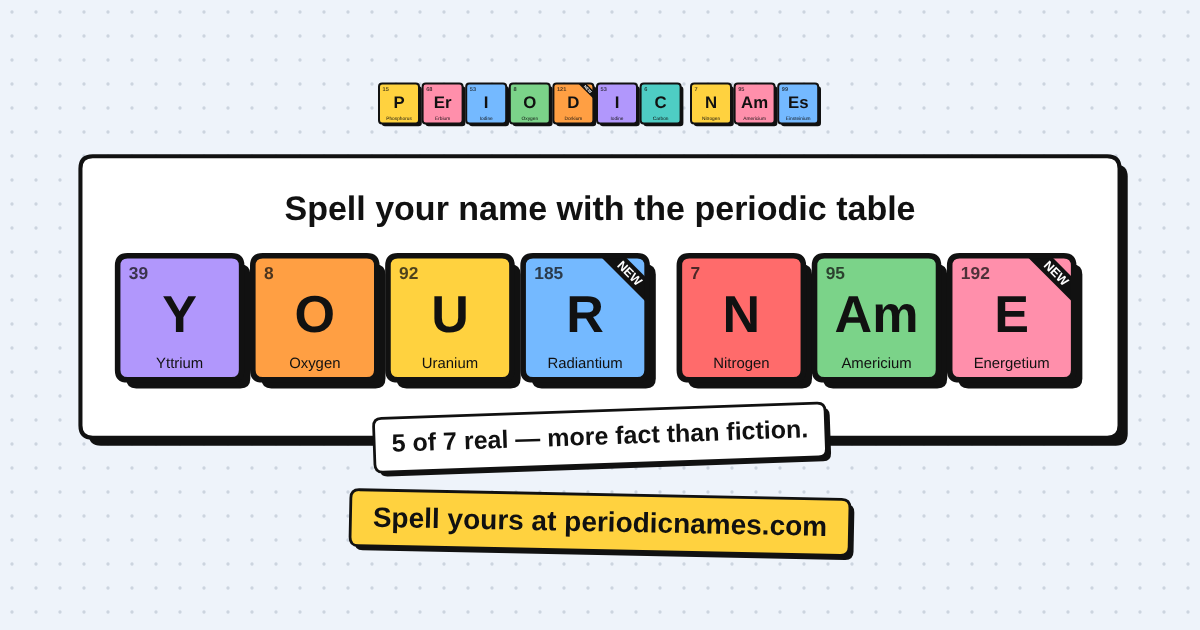
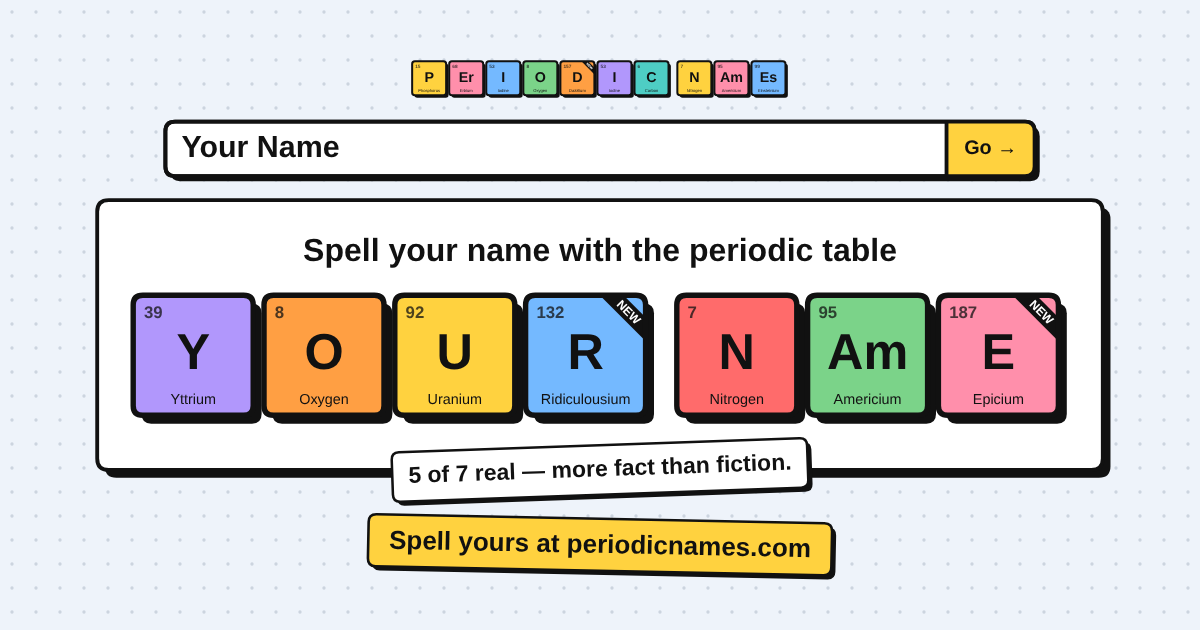
feat(share): lay out share images and reel like the site, inside IG/TikTok safe zones
Input box (with Go button) stays at the top, the periodic table sits in
the middle and lights up, and the result card lands below it, the same
order as the website. Tall formats now keep all content within
x 140-940, y 220-1420 so Instagram and TikTok overlays don't cover it.
Link-preview image regenerated with the new layout.

Claude-Session: https://claude.ai/code/session_013XgXtwSVp25UKSNgw6kzbd

diff --git a/src/utils/shareScene.ts b/src/utils/shareScene.ts
@@ -33,20 +33,20 @@ interface FormatSpec {
 }
 
 const TALL: FormatSpec = {
-  top: 210, bottom: 1480, side: 90, logoTile: 62, nameTileMax: 176, nameMaxH: 520,
-  captionSize: 50, stickerSize: 34, ctaSize: 40, gap: 56, tableW: 860, dot: 30,
+  top: 220, bottom: 1420, side: 140, logoTile: 54, nameTileMax: 150, nameMaxH: 330,
+  captionSize: 50, stickerSize: 32, ctaSize: 38, gap: 44, tableW: 800, dot: 30,
 };
 
 const SPECS: Record<ShareFormat, FormatSpec> = {
   reel: TALL,
   story: TALL,
   post: {
-    top: 64, bottom: 1290, side: 80, logoTile: 54, nameTileMax: 168, nameMaxH: 430,
-    captionSize: 46, stickerSize: 32, ctaSize: 38, gap: 48, tableW: 780, dot: 30,
+    top: 56, bottom: 1300, side: 80, logoTile: 52, nameTileMax: 150, nameMaxH: 330,
+    captionSize: 46, stickerSize: 30, ctaSize: 36, gap: 42, tableW: 820, dot: 30,
   },
   wide: {
-    top: 34, bottom: 600, side: 70, logoTile: 40, nameTileMax: 136, nameMaxH: 240,
-    captionSize: 34, stickerSize: 25, ctaSize: 28, gap: 30, tableW: 0, dot: 24,
+    top: 26, bottom: 606, side: 70, logoTile: 34, nameTileMax: 120, nameMaxH: 200,
+    captionSize: 32, stickerSize: 23, ctaSize: 26, gap: 24, tableW: 0, dot: 24,
   },
 };
 
@@ -102,6 +102,8 @@ export interface SceneTimeline {
 const TILE_POP_MS = 360;
 const CTA_IN_MS = 420;
 const FINAL_HOLD_MS = 3000;
+const SUBMIT_DELAY_MS = 300;
+const PRESS_MS = 160;
 const TILE_IMPACT_MS = 140;
 
 type Measure = (text: string, weight: number, size: number) => number;
@@ -210,8 +212,11 @@ export function buildShareScene(result: NameResult, caption: string, format: Sha
   const ctaH = spec.ctaSize * 2;
   const ctaW = measure(SHARE_CTA, 700, spec.ctaSize) + spec.ctaSize * 1.6;
 
+  const inputH = spec.captionSize * 1.7;
+  const inputW = contentW * 0.82;
+
   const region = spec.bottom - spec.top;
-  const fixedH = logo.height + spec.gap + cardH + stickerH * 0.5 + spec.gap + ctaH;
+  const fixedH = logo.height + spec.gap + inputH + spec.gap + cardH + stickerH * 0.5 + spec.gap + ctaH;
   let tableCell = spec.tableW / 18;
   if (spec.tableW > 0) {
     const room = region - fixedH - spec.gap;
@@ -225,11 +230,8 @@ export function buildShareScene(result: NameResult, caption: string, format: Sha
   const logoPos = { x: (width - logo.width) / 2, y };
   y += logo.height + spec.gap;
 
-  const card: Box = { x: (width - cardW) / 2, y, w: cardW, h: cardH };
-  const captionY = card.y + pad;
-  const tilesPos = { x: (width - tilesBlock.width) / 2, y: card.y + pad + captionBlockH };
-  const stickerCy = card.y + card.h;
-  y = card.y + card.h + stickerH * 0.5 + spec.gap;
+  const inputBox: Box = { x: (width - inputW) / 2, y, w: inputW, h: inputH };
+  y += inputH + spec.gap;
 
   let table: ShareScene['table'] = null;
   if (showTable) {
@@ -237,14 +239,17 @@ export function buildShareScene(result: NameResult, caption: string, format: Sha
     y += tableH + spec.gap;
   }
 
+  const card: Box = { x: (width - cardW) / 2, y, w: cardW, h: cardH };
+  const captionY = card.y + pad;
+  const tilesPos = { x: (width - tilesBlock.width) / 2, y: card.y + pad + captionBlockH };
+  const stickerCy = card.y + card.h;
+  y = card.y + card.h + stickerH * 0.5 + spec.gap;
+
   const litSymbols = new Map<string, { color: string; order: number }>();
   for (const p of tilesBlock.placed) {
     const el = p.item.element;
     if (el && !litSymbols.has(el.symbol)) litSymbols.set(el.symbol, { color: p.item.color, order: p.order });
   }
-
-  const inputW = Math.min(contentW, Math.max(cardW, contentW * 0.8));
-  const inputH = spec.captionSize * 2.4;
 
   return {
     format, width, height, name: result.originalName, spec,
@@ -256,7 +261,7 @@ export function buildShareScene(result: NameResult, caption: string, format: Sha
     table,
     litSymbols,
     cta: { size: spec.ctaSize, cx: width / 2, cy: y + ctaH / 2, w: ctaW, h: ctaH },
-    inputBox: { x: (width - inputW) / 2, y: card.y + card.h / 2 - inputH / 2, w: inputW, h: inputH },
+    inputBox,
   };
 }
 
@@ -265,7 +270,7 @@ export function sceneTimeline(scene: ShareScene): SceneTimeline {
   const typeStart = 300;
   const charMs = Math.min(110, Math.max(45, 1100 / chars));
   const typeEnd = typeStart + chars * charMs;
-  const cardIn = typeEnd + 420;
+  const cardIn = typeEnd + SUBMIT_DELAY_MS + 260;
   const n = scene.tiles.placed.length;
   const stagger = Math.min(280, Math.max(140, 2600 / Math.max(1, n)));
   const tileStarts = scene.tiles.placed.map((_, i) => cardIn + 260 + i * stagger);
@@ -331,40 +336,60 @@ function drawLogo(ctx: CanvasRenderingContext2D, scene: ShareScene): void {
   for (const p of logo.placed) drawElementTile(ctx, p.item, logo.x + p.x, logo.y + p.y, logo.tile);
 }
 
-function drawInput(ctx: CanvasRenderingContext2D, scene: ShareScene, t: number, tl: SceneTimeline): void {
-  const exit = clamp01((t - tl.cardIn) / 220);
-  if (exit >= 1) return;
-  const enter = easeOutBack(clamp01((t - 0) / 300));
+function drawInput(ctx: CanvasRenderingContext2D, scene: ShareScene, t: number, tl: SceneTimeline | null): void {
   const box = scene.inputBox;
-  const cx = box.x + box.w / 2;
-  const cy = box.y + box.h / 2;
   const unit = scene.spec.captionSize;
-  withTransform(ctx, cx, cy, enter * (1 - exit * 0.4), 0, 1 - exit, () => {
-    ctx.font = canvasFont(700, unit * 0.42);
-    ctx.textAlign = 'left';
-    ctx.textBaseline = 'bottom';
-    ctx.fillStyle = BRAND.ink;
-    ctx.fillText('YOUR NAME', box.x + 4, box.y - unit * 0.3);
+  const submitAt = tl ? tl.typeEnd + SUBMIT_DELAY_MS : -Infinity;
+  const pressed = tl !== null && t >= submitAt && t < submitAt + PRESS_MS;
+  const shadow = pressed ? 0 : unit * 0.16;
+  const shift = pressed ? unit * 0.12 : 0;
+  const b: Box = { x: box.x + shift, y: box.y + shift, w: box.w, h: box.h };
+  const radius = unit * 0.3;
+  const border = unit * 0.12;
 
-    drawBrutalBox(ctx, box, BRAND.paper, unit * 0.12, unit * 0.16, unit * 0.3);
-    const typed = Math.max(0, Math.min(scene.name.length, Math.floor((t - tl.typeStart) / tl.charMs) + 1));
-    const text = t < tl.typeStart ? '' : scene.name.slice(0, typed);
-    let size = unit * 1.05;
+  ctx.save();
+  drawBrutalBox(ctx, b, BRAND.paper, border, shadow, radius);
+
+  ctx.font = canvasFont(700, unit * 0.62);
+  const goW = ctx.measureText('Go →').width + unit * 1.1;
+  const goX = b.x + b.w - goW;
+  ctx.save();
+  roundRectPath(ctx, b.x, b.y, b.w, b.h, radius);
+  ctx.clip();
+  ctx.fillStyle = BRAND.yellow;
+  ctx.fillRect(goX, b.y, goW, b.h);
+  ctx.restore();
+  ctx.beginPath();
+  ctx.moveTo(goX, b.y);
+  ctx.lineTo(goX, b.y + b.h);
+  ctx.lineWidth = border;
+  ctx.strokeStyle = BRAND.ink;
+  ctx.stroke();
+  roundRectPath(ctx, b.x, b.y, b.w, b.h, radius);
+  ctx.stroke();
+  ctx.fillStyle = BRAND.ink;
+  ctx.textAlign = 'center';
+  ctx.textBaseline = 'middle';
+  ctx.fillText('Go →', goX + goW / 2, b.y + b.h / 2);
+
+  const typed = tl ? Math.max(0, Math.min(scene.name.length, Math.floor((t - tl.typeStart) / tl.charMs) + 1)) : scene.name.length;
+  const text = tl && t < tl.typeStart ? '' : scene.name.slice(0, typed);
+  const textX = b.x + unit * 0.5;
+  const maxTextW = goX - textX - unit * 0.4;
+  let size = unit * 0.95;
+  ctx.font = canvasFont(700, size);
+  while (size > unit * 0.45 && ctx.measureText(scene.name).width > maxTextW) {
+    size -= 2;
     ctx.font = canvasFont(700, size);
-    while (size > unit * 0.5 && ctx.measureText(scene.name).width > box.w - unit * 1.4) {
-      size -= 2;
-      ctx.font = canvasFont(700, size);
-    }
-    ctx.textBaseline = 'middle';
-    ctx.fillStyle = BRAND.ink;
-    const textX = box.x + unit * 0.6;
-    ctx.fillText(text, textX, cy);
-    const cursorOn = t >= tl.typeEnd ? Math.floor(t / 260) % 2 === 0 : true;
-    if (cursorOn) {
-      const cx2 = textX + ctx.measureText(text).width + 6;
-      ctx.fillRect(cx2, cy - size * 0.55, Math.max(4, unit * 0.08), size * 1.1);
-    }
-  });
+  }
+  ctx.textAlign = 'left';
+  ctx.fillText(text, textX, b.y + b.h / 2);
+  const typing = tl !== null && t < submitAt;
+  if (typing && (t < tl.typeEnd || Math.floor(t / 260) % 2 === 0)) {
+    const cx = textX + ctx.measureText(text).width + 4;
+    ctx.fillRect(cx, b.y + b.h / 2 - size * 0.55, Math.max(4, unit * 0.07), size * 1.1);
+  }
+  ctx.restore();
 }
 
 function drawCard(ctx: CanvasRenderingContext2D, scene: ShareScene, t: number, tl: SceneTimeline | null): void {
@@ -510,7 +535,7 @@ export function drawShareScene(ctx: CanvasRenderingContext2D, scene: ShareScene,
   if (timeline) ctx.translate(shakeOffset(scene, t, timeline), 0);
   drawLogo(ctx, scene);
   drawTable(ctx, scene, t, timeline);
-  if (timeline) drawInput(ctx, scene, t, timeline);
+  drawInput(ctx, scene, t, timeline);
   drawCard(ctx, scene, t, timeline);
   drawNameTiles(ctx, scene, t, timeline);
   drawSticker(ctx, scene, t, timeline);

diff --git a/docs/phase1-tasks.md b/docs/phase1-tasks.md
@@ -97,10 +97,10 @@ Remaining optional polish items are in Phase 1d below.
 ### Phase 2 — Social Sharing (Complete, Oct 2026 rebuild)
 
 - [x] **One share scene for every format** (`src/utils/shareScene.ts`)
-  `buildShareScene` lays out the site's look on canvas: dot-grid mist background, tile logo, white card with the name tiles, stats sticker, lit mini periodic table, yellow "Spell yours at periodicnames.com" CTA. `drawShareScene(ctx, scene, t, timeline)` draws the final frame (images) or any moment of the reel. Formats: Reel 1080×1920 video, Story 1080×1920, Post 1080×1350 (4:5), Wide 1200×630. Tall formats keep content inside y 210–1480 so Instagram's UI doesn't cover it.
+  `buildShareScene` mirrors the site top to bottom: tile logo → name input with yellow "Go →" → periodic table (matched elements lit) → white result card with the name tiles and the stats sticker → yellow "Spell yours at periodicnames.com" CTA, on the dot-grid mist background. `drawShareScene(ctx, scene, t, timeline)` draws the final frame (images) or any moment of the reel. Formats: Reel 1080×1920 video, Story 1080×1920, Post 1080×1350 (4:5), Wide 1200×630 (no table). Tall formats keep everything inside x 140–940, y 220–1420 — clear of Instagram Reels' UI (top ~220px, bottom ~420px, right-side buttons) and TikTok's (top ~160px, bottom ~480px, right ~140px, left ~60px).
 
 - [x] **Reel video** (`src/utils/shareMedia.ts`, `src/utils/shareAudio.ts`)
-  Name types into an input box → card pops → tiles slam in one by one (spring + spin + drop, small screen shake) while their cells light on the mini table → sticker stamps → CTA bounces in → 3s completely still hold so viewers can take it in. 6–9s total. Synthesised sound (typing clicks, rising pops, chord, ding) via Web Audio mixed into the recording. MediaRecorder prefers MP4/H.264 (Chrome, Safari), falls back to WebM (Firefox, with a warning that Instagram may reject it). The AudioContext is primed on the Share click so Safari allows sound.
+  Name types into the input → "Go" button presses → result card pops → tiles slam in one by one (spring + spin + drop, small screen shake) while their cells light on the mini table → sticker stamps → CTA bounces in → 3s completely still hold so viewers can take it in. 6–9s total. Synthesised sound (typing clicks, rising pops, chord, ding) via Web Audio mixed into the recording. MediaRecorder prefers MP4/H.264 (Chrome, Safari), falls back to WebM (Firefox, with a warning that Instagram may reject it). The AudioContext is primed on the Share click so Safari allows sound.
 
 - [x] **Share dialog** (`SharePreviewModal`, `ShareMediaPreview`, `ShareActions`)
   Two-column layout matching the tee designer. Format chips, live preview (no caption field — people add their own caption in the app they post to) — the reel records visibly in the preview, then swaps to the finished video. Primary button uses `navigator.share({ files })` when the device supports file sharing (phones → Instagram/TikTok share sheet), otherwise downloads. Copy link, X intent, Save.

diff --git a/CLAUDE.md b/CLAUDE.md
@@ -263,8 +263,9 @@ Earlier revamp notes: — palette, Space Grotesk, cards/buttons/inputs, shared `
 Launch plan (Oct 2026): **launch with sharing; tees show "coming soon" in production** (`TEES_ENABLED`) until the test shirt confirms placement and Stripe/Printful env setup is done. Preview deploys and local dev keep the full tee flow. To turn tees on: set `VITE_TEES_ENABLED=true` in Vercel Production and redeploy.
 
 Phase 2 — sharing (rebuilt Oct 2026, see docs/phase1-tasks.md):
-- One canvas scene (`shareScene.ts`) in the site's style for Reel (video), Story, Post (4:5) and Wide (X/link) — same tiles, card, sticker, lit mini table and yellow CTA as the site
-- Reel: typed name → tiles slam in → table lights → sticker → CTA, with synthesised sound; MP4 where MediaRecorder supports it
+- One canvas scene (`shareScene.ts`) laid out like the site — logo, name input, periodic table, result card + sticker, yellow CTA — for Reel (video), Story, Post (4:5) and Wide (X/link)
+- Reel: name types in → Go presses → tiles slam into the card while their table cells light → sticker → CTA → 3s still hold, with synthesised sound; MP4 where MediaRecorder supports it
+- Tall formats stay inside x 140–940, y 220–1420 (Instagram + TikTok UI safe zones)
 - Dialog: native share sheet with the file on phones (→ Instagram Reels/Stories), download on desktop, copy link, X intent
 
 SEO: static OG/Twitter tags + `public/og-image.png`, JSON-LD, `robots.txt`, `sitemap.xml`, canonical → home (name pages are not meant to be indexed separately yet), tagline `<h1>`, per-name `document.title`. Search Console: verify via a DNS TXT record (domain property), then submit the sitemap. Not done: per-name link previews (needs server-rendered meta + OG images), analytics.
